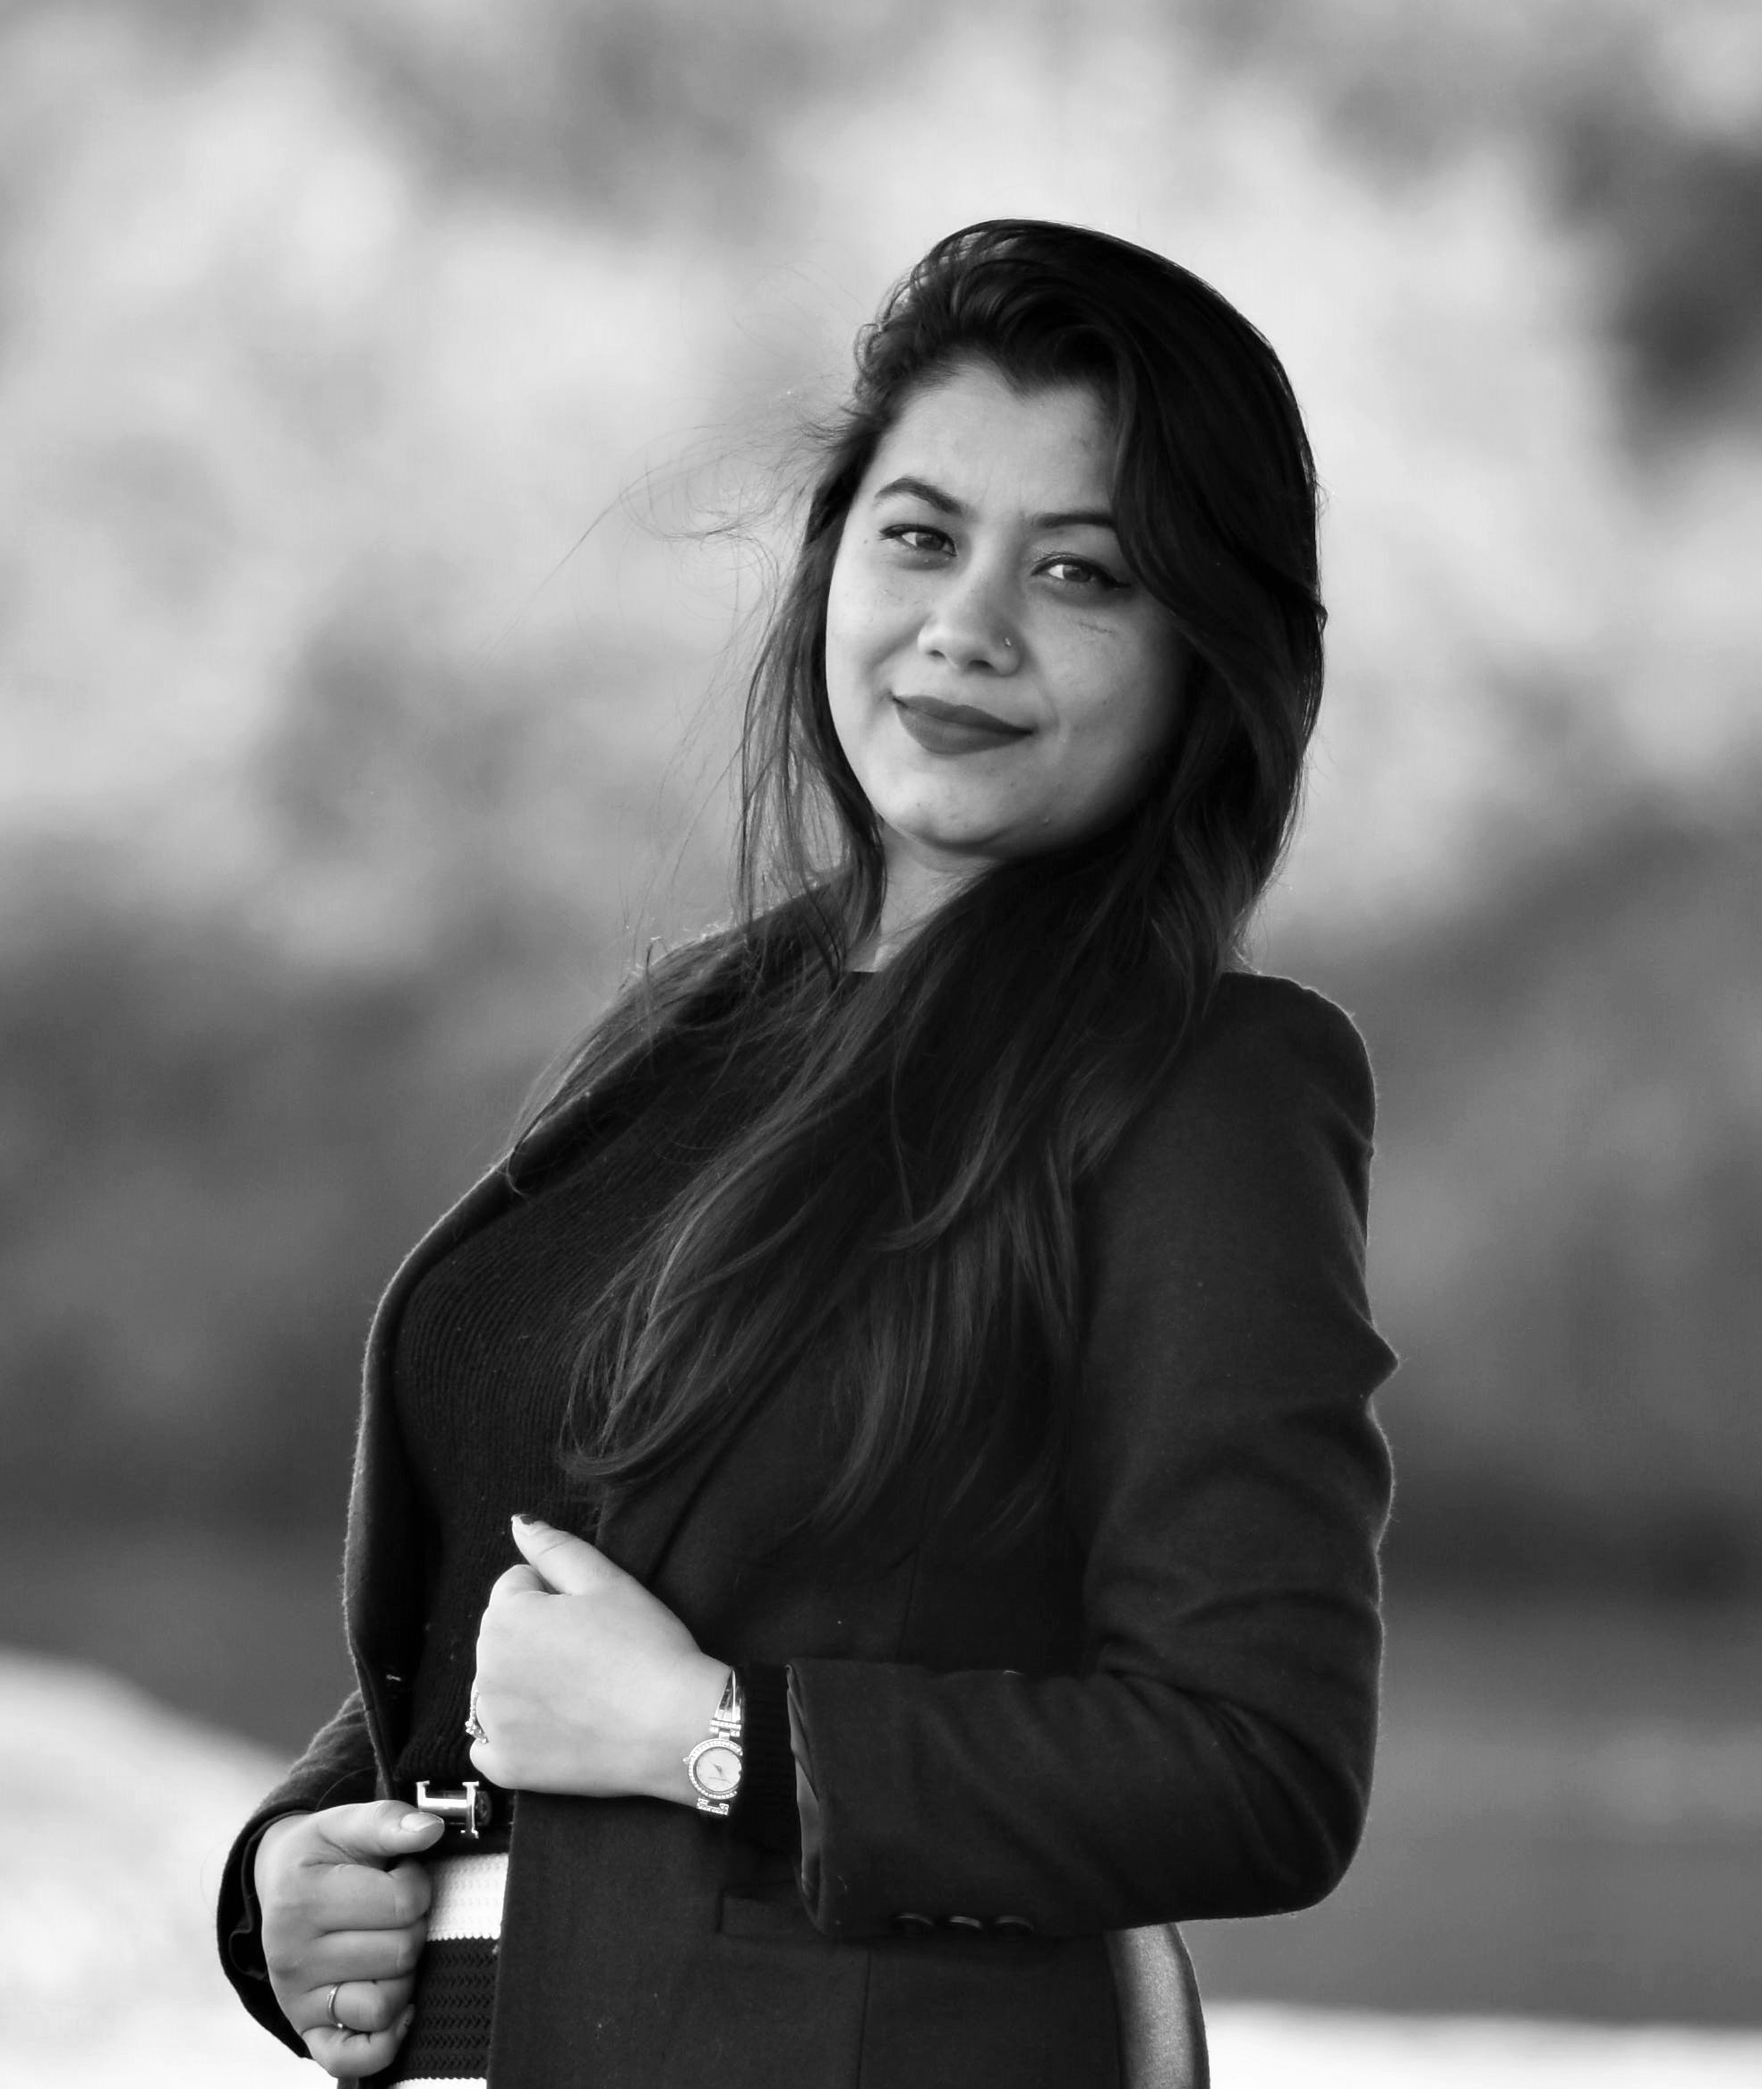
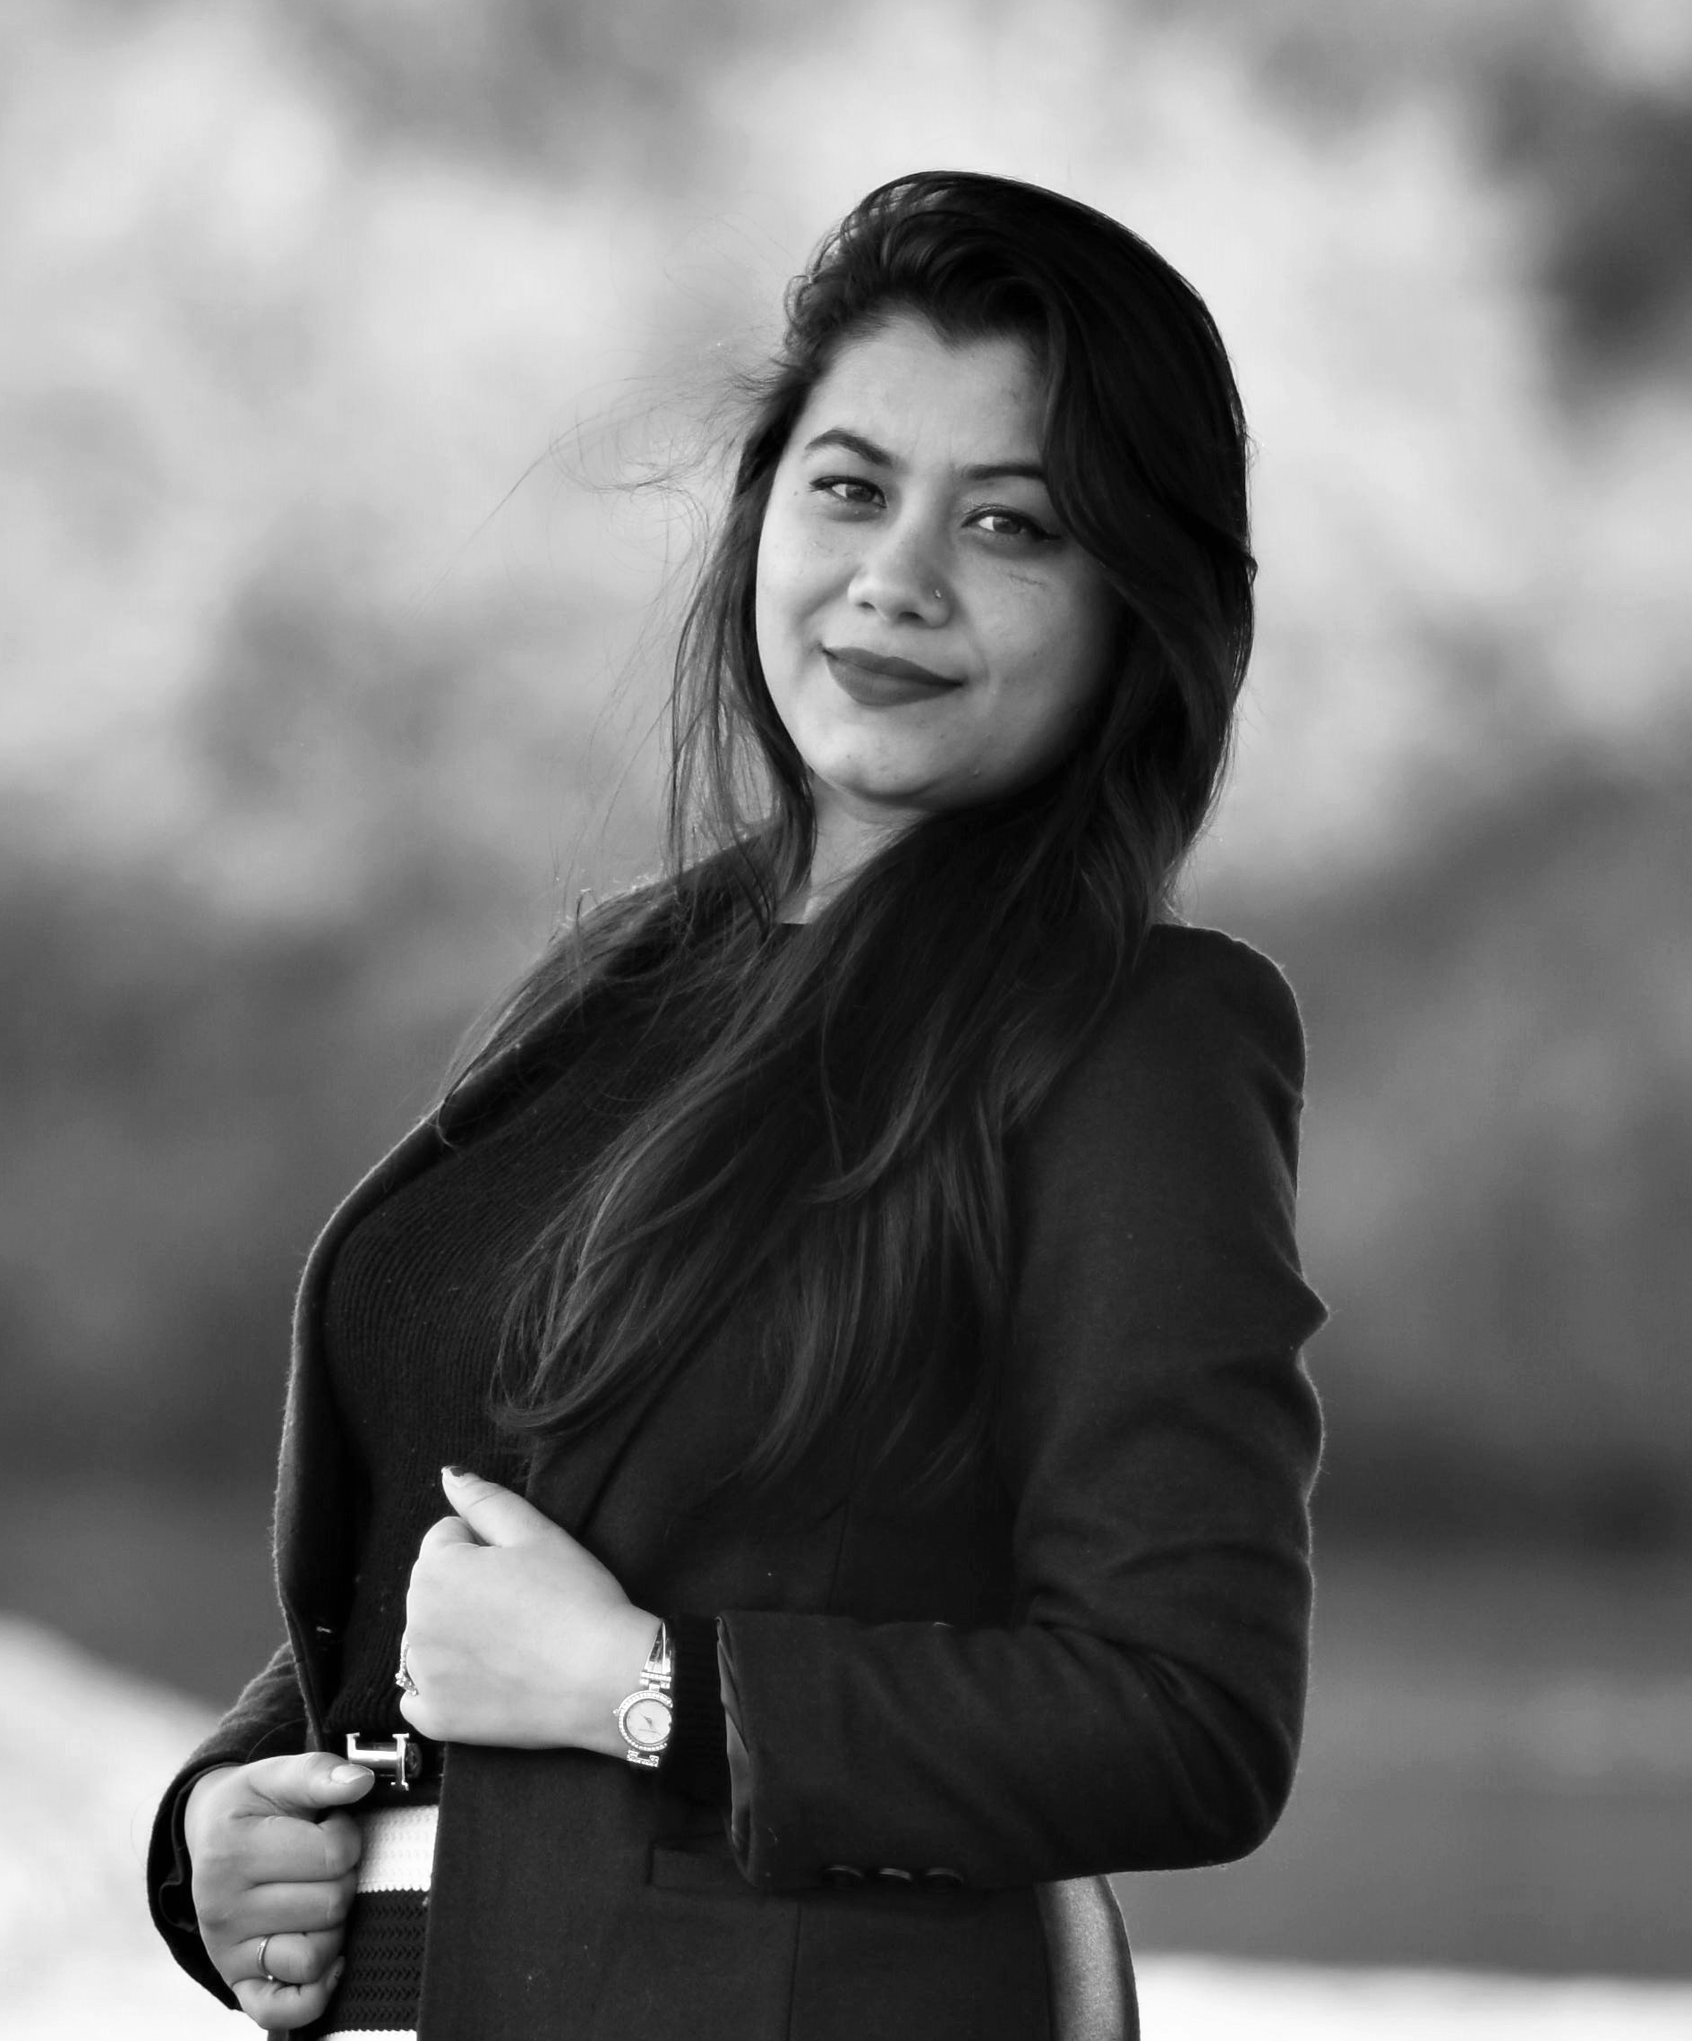
image optimize

diff --git a/index.html b/index.html
@@ -89,7 +89,7 @@
 
          <div class="three columns">
 
-            <img class="profile-pic"  src="images/dp.PNG" alt="" />
+            <img class="profile-pic"  src="https://raw.githubusercontent.com/neehapokhrel/neehapokhrel.github.io/master/images/dp.jpg" alt="" />
 			
 
          </div>
